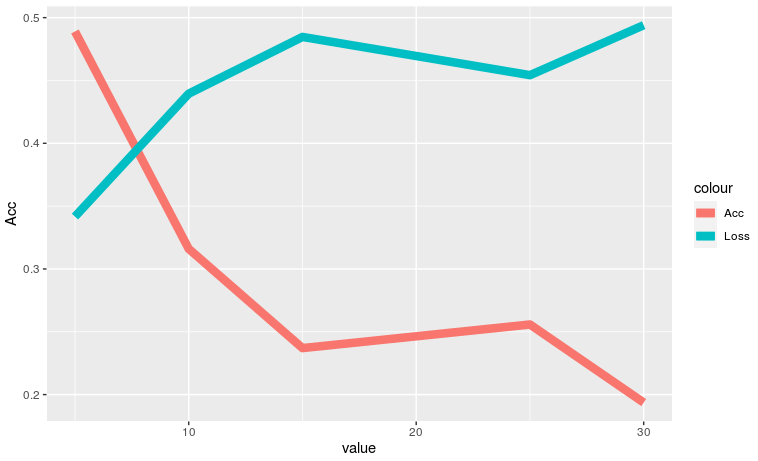
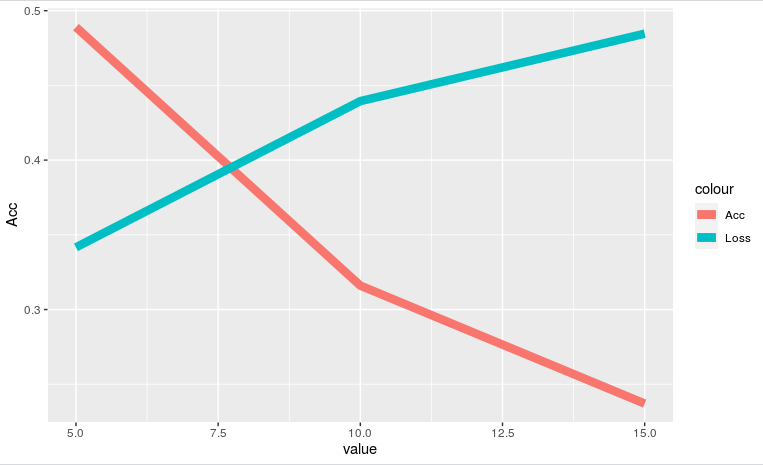
Reformatted testing results

diff --git a/data_checker.py b/data_checker.py
@@ -5,16 +5,20 @@ from PIL import Image
 from PIL import Image
 
 def main():
-    folder = 'dataset/nodedata/training-data/small/'
-    imgname = '113-0.png'
-    path = folder + imgname
+    folder = 'dataset/experiments/resolution/'
+    path = 'test-data/small/'
+    img1 = folder + 'datathesesres48/' + path +'109-0.png'
+    img2 = folder + 'datathesesres768/' + path +'22-1.png'
+    loop(img1, 'img1')
+    loop(img2, 'img2')
+
+
+def loop(path, name):
     image = Image.open(path)
     resized = image.resize((48, 48), resample=Image.LANCZOS)
     imgarray = np.array(resized)
-    show = Image.fromarray(imgarray)
-    show.save('image.png')
-    show.show()
-    print('Image printed')
+    image = Image.fromarray(imgarray)
+    image.save(name + '.png')
 
 
 if __name__ == '__main__':

diff --git a/model.py b/model.py
@@ -104,9 +104,6 @@ class ModelTreemap(ModelBase):
         upsample4 = tf.image.resize_nearest_neighbor(conv6, (48, 48))
         conv7 = tf.layers.conv2d(upsample4, 32, (3, 3), padding='same', activation=tf.nn.relu)
 
-        #upsample5 = tf.image.resize_nearest_neighbor(conv6, (96, 96))
-        #conv8 = tf.layers.conv2d(upsample5, 64, (3, 3), padding='same', activation=tf.nn.relu)
-
         # 3 channel for RGG
         logits = tf.layers.conv2d(conv7, 3, (3,3), padding='same', activation=None)
         decoded = tf.nn.sigmoid(logits, name='decoded')
